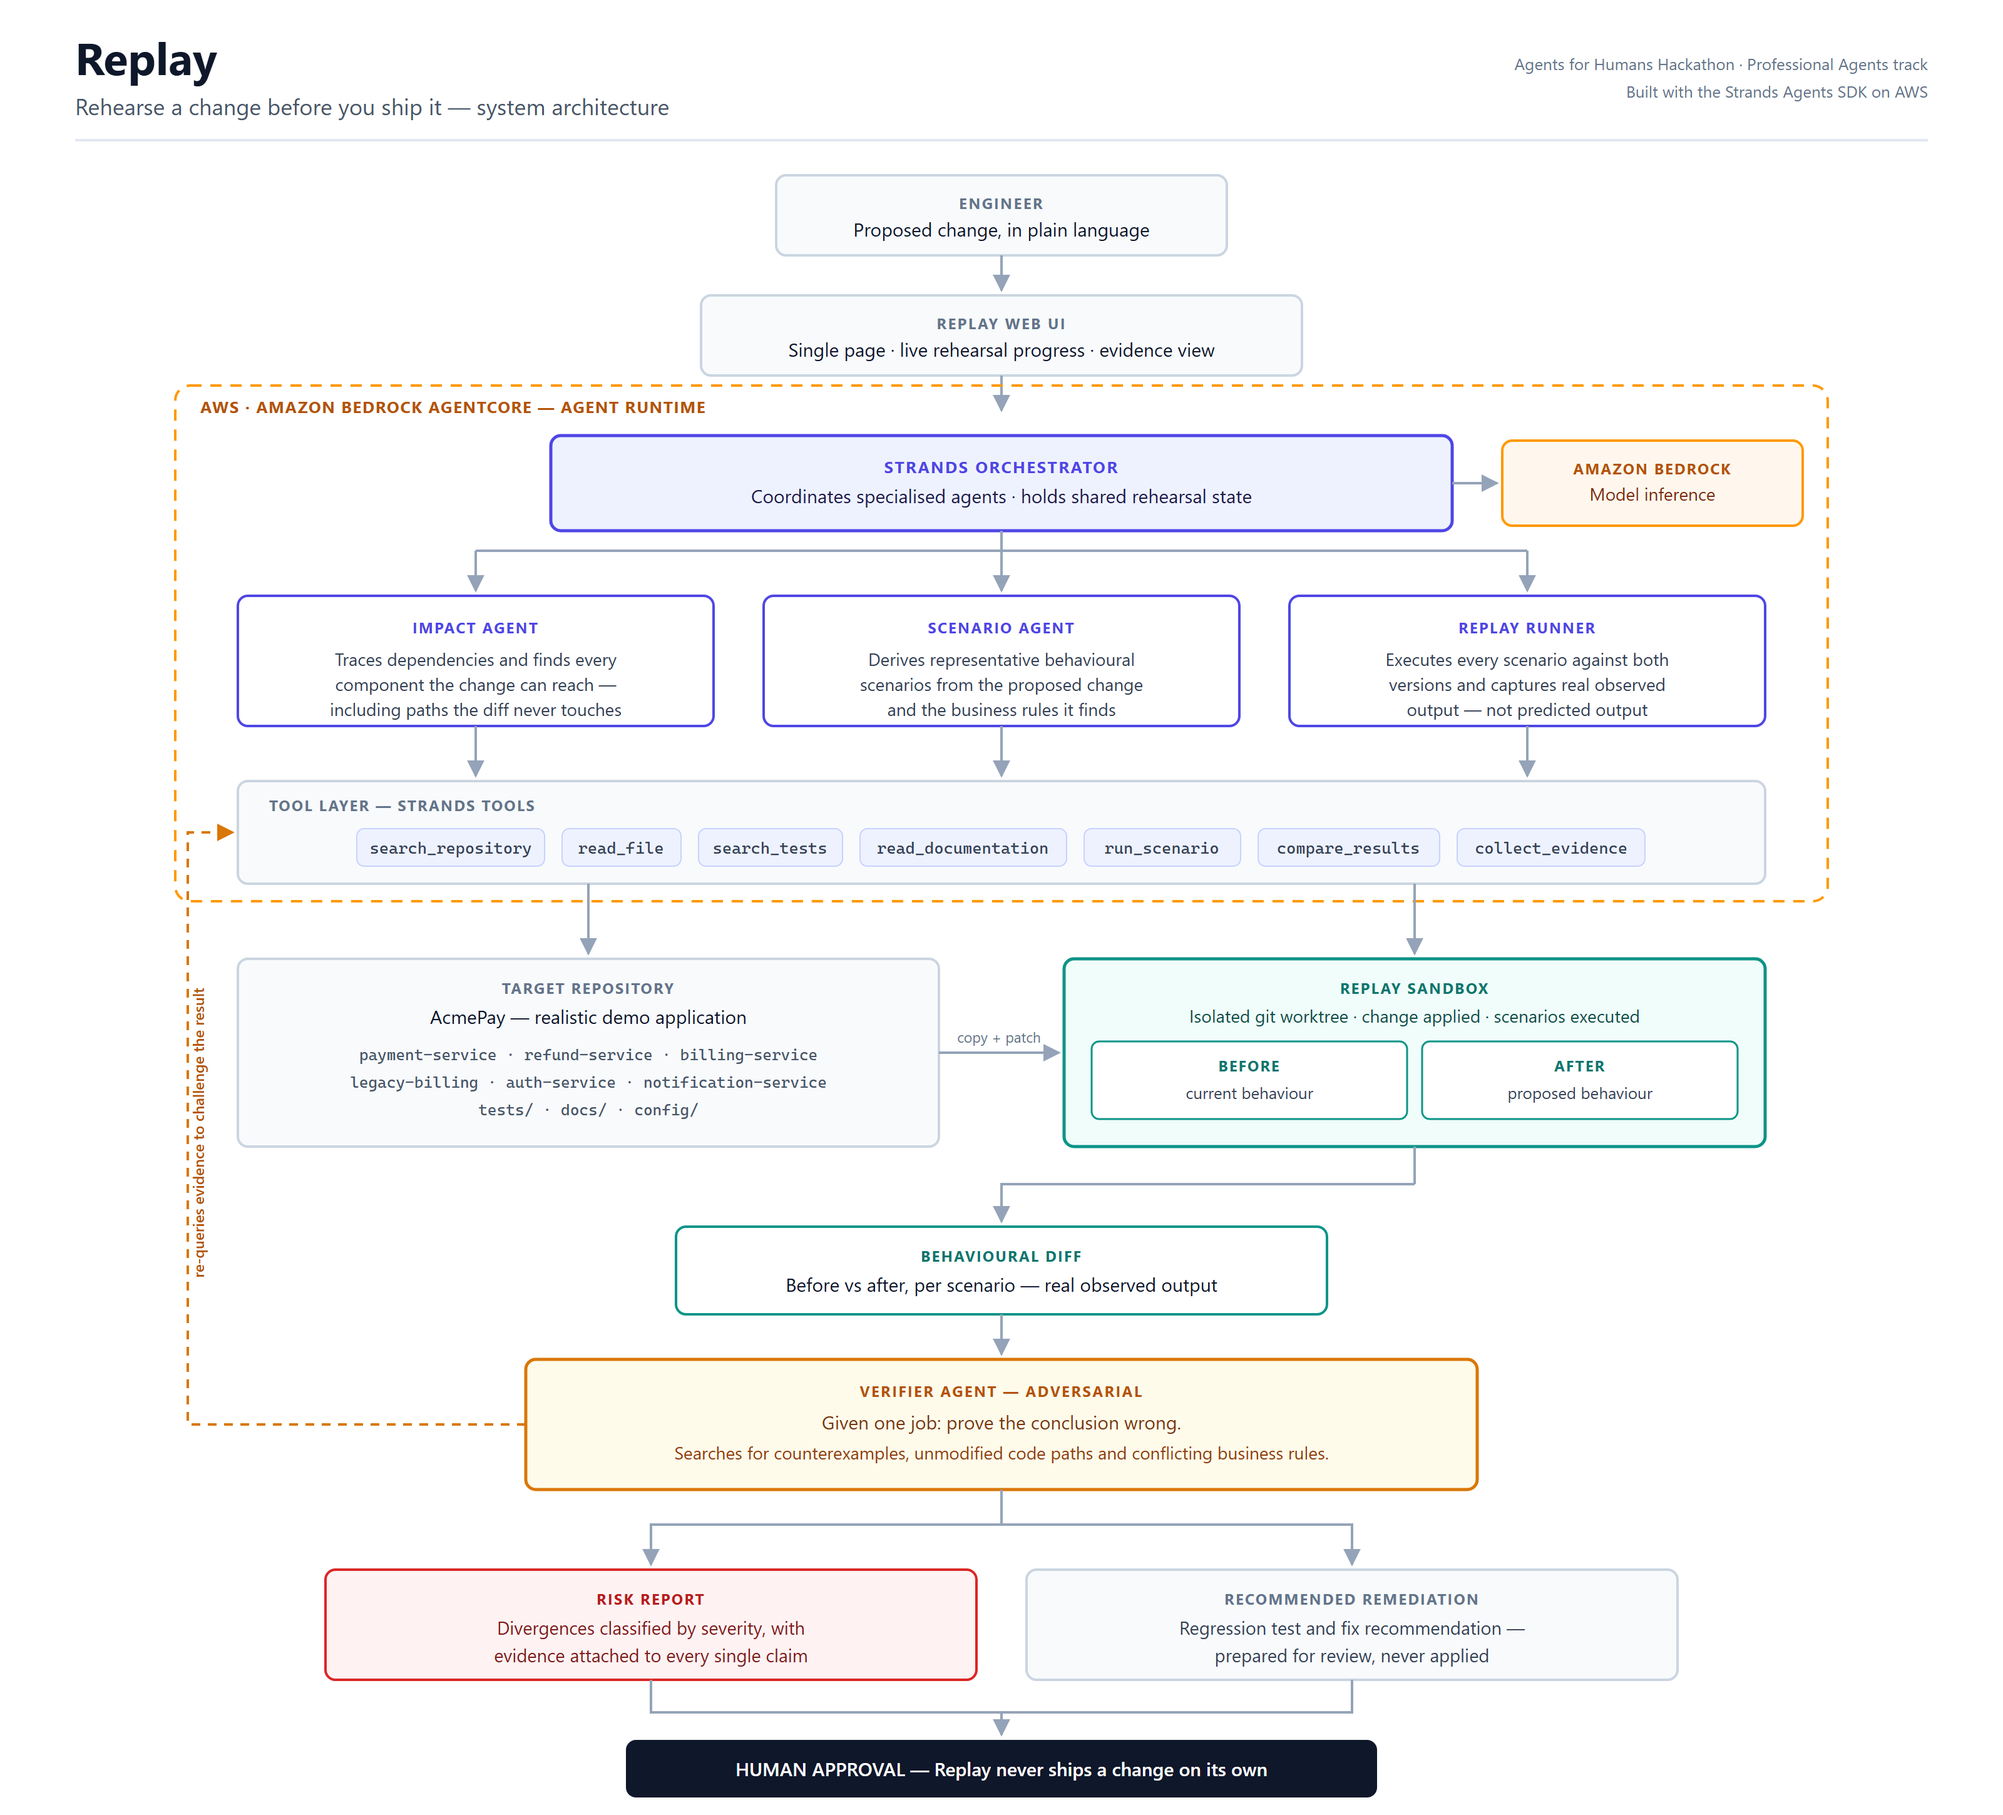
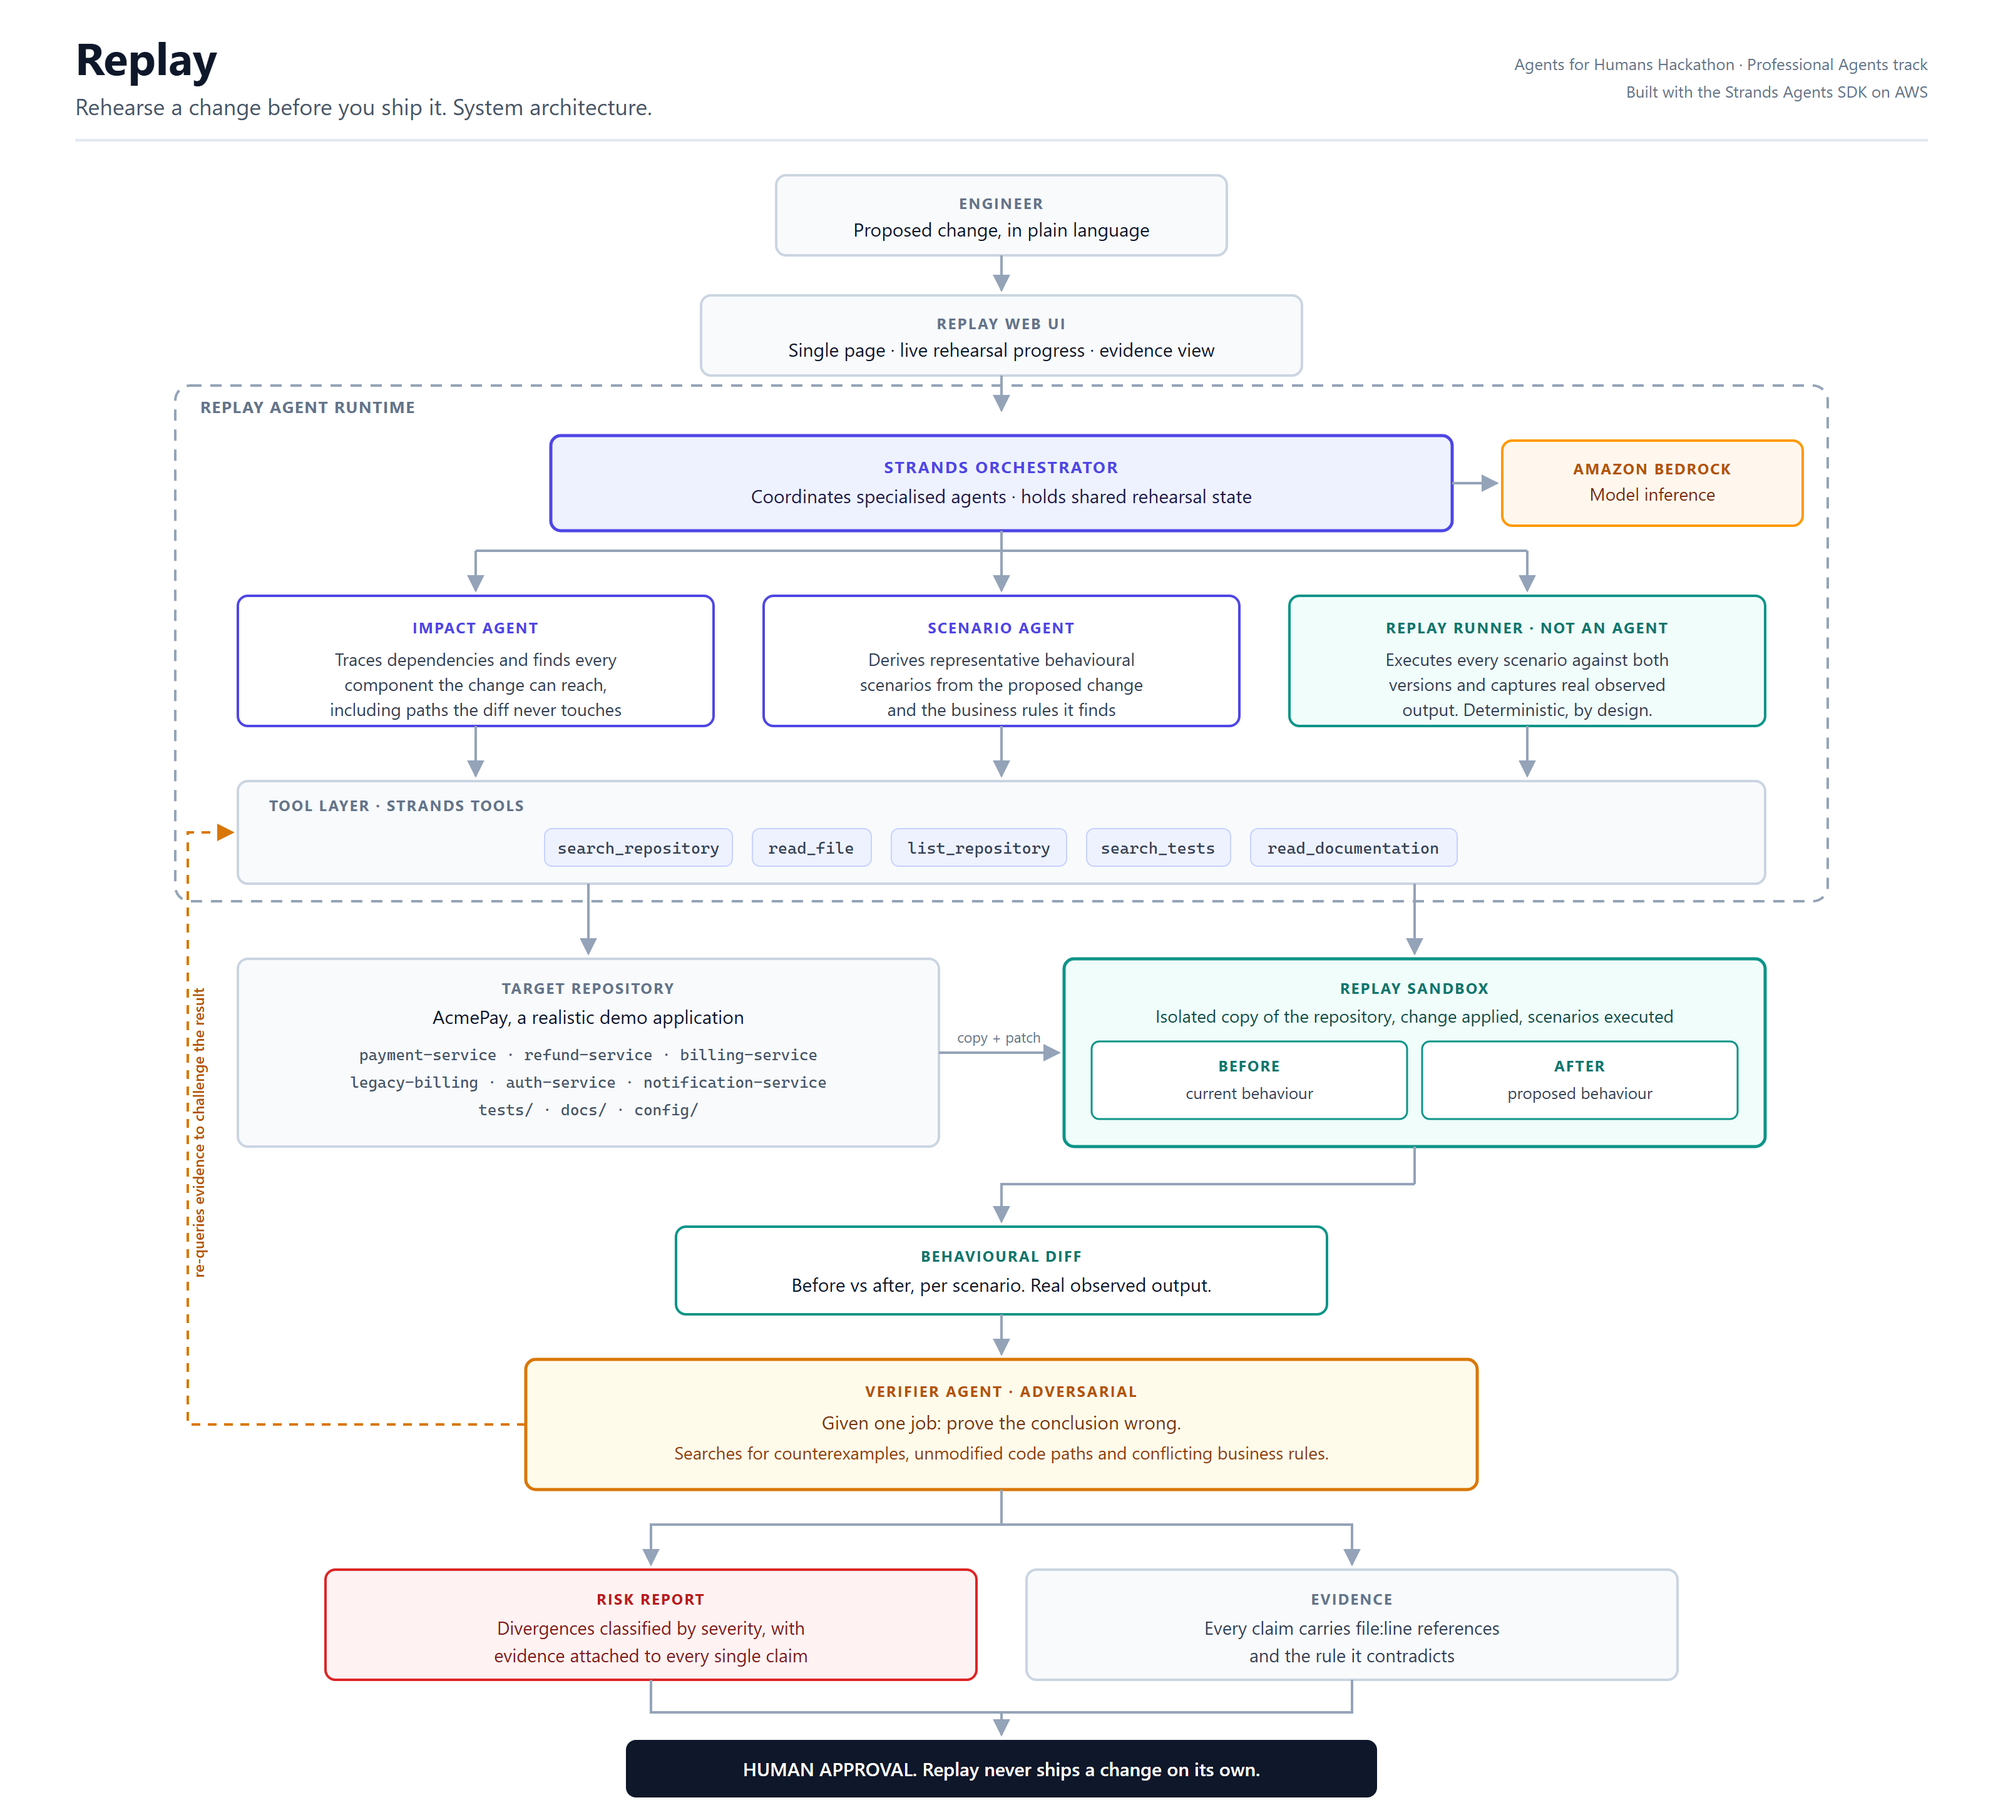
Correct the architecture diagram, and stop the dash sweep breaking its own filter
The diagram claimed things that are not true. It showed an AgentCore boundary
that was never used, called the sandbox a git worktree when it is a temp
directory copy, listed three tools that do not exist, promised a remediation
step that was deliberately never built, and drew the Replay Runner in the same
style as the agents when the whole point is that it is not one. All corrected,
and the runner is now visually distinct.

Removing dashes across the repository also stripped them out of the table in
report.py that replaces them, quietly turning the filter into a no-op. The
characters are now written with a comment explaining why they must stay
literal.

README had gone stale in three places: it named Hugging Face as the live host
when the demo runs on Render, quoted the old two minute cooldown, and told
readers to pip install two packages by hand rather than use requirements.txt.

diff --git a/replay/report.py b/replay/report.py
@@ -13,7 +13,14 @@ from .pipeline import RehearsalReport
 # Models reach for em and en dashes constantly. Normalise them to a plain
 # hyphen on the way out so the page reads consistently, whatever the agents
 # happened to write this run.
-_DASHES = {"—": "-", "–": "-", "−": "-"}
+# Written as escapes on purpose. Spelled literally, a find-and-replace over the
+# repository strips the characters out of the table that replaces them, and the
+# filter silently becomes a no-op.
+_DASHES = {
+    "—": "-",  # em dash
+    "–": "-",  # en dash
+    "−": "-",  # minus sign
+}
 
 
 def clean(text: Any) -> Any:

diff --git a/replay/tools.py b/replay/tools.py
@@ -1,7 +1,7 @@
 """Strands tools for investigating a target repository.
 
 These are the agents' hands. Every one of them reads real files from the
-target repository — none of them ask a model what a file probably contains.
+target repository - none of them ask a model what a file probably contains.
 
 They are built by a factory bound to a repository root so the same tool set
 can be pointed at any checkout, and so each function stays directly callable

diff --git a/README.md b/README.md
@@ -18,7 +18,7 @@ Existing tools answer *"what might be affected?"* Replay answers *"what actually
 behaved differently, and does that break a rule?"*
 
 The difference is that Replay runs an experiment. Scenarios execute as real
-subprocesses inside isolated copies of the repository — one pristine, one with
+subprocesses inside isolated copies of the repository - one pristine, one with
 the change applied. If Replay claims behaviour changed, there is an execution
 trace behind the claim.
 
@@ -31,7 +31,7 @@ trace behind the claim.
 | Impact Agent | Strands agent | Traces what the change reaches, including duplicates the diff misses |
 | Scenario Agent | Strands agent | Designs the observations that would expose a difference |
 | Replay Runner | deterministic | Executes every scenario in both sandboxes, captures real output |
-| Verifier Agent | Strands agent | Adversarial — tries to prove the conclusion wrong |
+| Verifier Agent | Strands agent | Adversarial - tries to prove the conclusion wrong |
 
 The Replay Runner is deliberately **not** an agent. Executing a scenario and
 comparing two outputs is deterministic work; wrapping it in a model would add
@@ -43,10 +43,10 @@ credible.
 Requires Python 3.11+, and AWS credentials with Amazon Bedrock model access.
 
 ```bash
-pip install strands-agents strands-agents-tools
+pip install -r requirements.txt
 ```
 
-**1. Model access.** Nothing to do in most accounts — serverless foundation
+**1. Model access.** Nothing to do in most accounts - serverless foundation
 models are enabled automatically on first invocation, and the old Bedrock
 "Model access" console page has been retired. First-time users of Anthropic
 models may be asked to submit use-case details once before the first call
@@ -71,13 +71,13 @@ export AWS_REGION=us-east-1
 ## Running it
 
 **Check your setup first.** This verifies credentials, region, and that Bedrock
-will actually answer — and names the exact problem if not:
+will actually answer - and names the exact problem if not:
 
 ```bash
 python scripts/check_aws.py
 ```
 
-**The web interface** — the same thing the live demo runs:
+**The web interface** - the same thing the live demo runs:
 
 ```bash
 uvicorn replay.web:app --host 0.0.0.0 --port 8000
@@ -94,7 +94,7 @@ python scripts/rehearse.py "Change the standard transaction fee from 2.5% to 2%"
 ```
 
 **The deterministic harness on its own**, with hand-written scenarios and no
-model calls — useful for verifying the sandbox works without spending anything,
+model calls - useful for verifying the sandbox works without spending anything,
 and for seeing that the before/after evidence is real:
 
 ```bash
@@ -109,30 +109,32 @@ python scripts/record_run.py
 
 ### Live rehearsals are rate limited
 
-A public URL making real Bedrock calls is a fast way to lose a credit balance,
-so `replay/web.py` caps live runs: one at a time, a two-minute per-client
-cooldown, and an hourly ceiling. When the cap is hit the page says so and falls
-back to the recorded run. Adjust the constants at the top of that file if you
-are running it privately.
+A rehearsal costs about **$0.58** in Bedrock tokens, measured from the agents'
+own usage metrics. A public URL making real model calls is a fast way to lose a
+credit balance, so `replay/web.py` caps live runs: one at a time, a 45 second
+per-client cooldown, 30 per hour, and a lifetime spend ceiling denominated in
+dollars rather than runs (`REPLAY_SPEND_BUDGET_USD`, default 40). When a cap is
+hit the page says so and the recorded run stays on screen.
 
 ## Deploying it
 
 Replay ships a `Dockerfile` and reads its port from `$PORT`, so the same image
 runs on Hugging Face Spaces, Fly, Cloud Run, ECS, or a laptop.
 
-**Hugging Face Spaces**, which is what the live demo uses:
+**Render**, which is what the live demo runs on:
 
-1. Create a Space at <https://huggingface.co/new-space> with **SDK: Docker**
-2. In the Space's **Settings -> Variables and secrets**, add `AWS_ACCESS_KEY_ID`,
-   `AWS_SECRET_ACCESS_KEY` and `AWS_REGION` as **secrets**. The container needs
-   its own credentials; it cannot use yours.
-3. `git remote add space https://huggingface.co/spaces/<user>/<space>`
-4. `./scripts/deploy_space.sh`
+1. New Web Service, connect this repository, runtime **Docker**
+2. Health check path `/healthz`, plan **Free**, a **US region** so the app sits
+   near the Bedrock region rather than a transatlantic hop away
+3. Add `AWS_ACCESS_KEY_ID` and `AWS_SECRET_ACCESS_KEY` as environment variables.
+   The container needs its own credentials; it cannot use yours.
 
-The Space needs a `README.md` with configuration frontmatter at its root, which
-would collide with this one. `deploy_space.sh` handles that by building a
-throwaway `space` branch with the card from `deploy/huggingface/README.md`,
-pushing it, and returning you to your working branch.
+`render.yaml` carries this configuration for the Blueprint flow.
+
+Scripts for two other targets are included: `scripts/deploy_cloudrun.sh` for
+Google Cloud Run, which gives a full vCPU on its free tier, and
+`scripts/deploy_space.sh` for Hugging Face Spaces, which now requires a paid
+plan for Docker.
 
 **Keeping it warm.** Free hosting sleeps when idle. `.github/workflows/keep-warm.yml`
 pings `/healthz` every ten minutes so a visitor never lands on a cold start. Set
@@ -142,13 +144,13 @@ the repository variable `DEMO_URL` to the deployed base URL under
 ## The demo repository
 
 `demo-repo/acmepay` is a small payments application with a deliberately
-realistic problem. The transaction fee is defined once in `core/config.py` — but
+realistic problem. The transaction fee is defined once in `core/config.py` - but
 `services/legacy_billing.py`, ported from a mainframe, holds its own copy as
 `_FEE_BASIS_POINTS = 250`. A search for `0.025` or `STANDARD_FEE_RATE` never
 finds it.
 
 Meanwhile `docs/business-rules.md` BR-207 states that the refund fee is
-*contractually fixed* at 2.5% and does not track the standard fee — but
+*contractually fixed* at 2.5% and does not track the standard fee - but
 `services/refund_service.py` imports `STANDARD_FEE_RATE` anyway.
 
 So a one-line config change produces two failures of opposite kinds: a

diff --git a/demo-repo/acmepay/docs/business-rules.md b/demo-repo/acmepay/docs/business-rules.md
@@ -2,7 +2,7 @@
 
 These rules are contractual. Changes require finance and legal sign-off.
 
-## BR-101 — Standard transaction fee
+## BR-101 - Standard transaction fee
 
 Card payments are charged a standard transaction fee of **2.5%** of the
 transaction amount, rounded half-up to two decimal places.
@@ -10,7 +10,7 @@ transaction amount, rounded half-up to two decimal places.
 Owner: Payments
 Implemented in: `core/config.py`, `services/payment_service.py`
 
-## BR-207 — Refund fee is contractually fixed
+## BR-207 - Refund fee is contractually fixed
 
 When a payment is refunded, AcmePay retains a refund fee of **2.5%**.
 
@@ -21,7 +21,7 @@ change with it. Amending BR-207 requires renegotiating the merchant contract.
 Owner: Legal
 Implemented in: `services/refund_service.py`
 
-## BR-310 — Legacy plan billing
+## BR-310 - Legacy plan billing
 
 Merchants on the `legacy-2019` and `legacy-enterprise` plans are billed
 through the legacy billing engine ported from the mainframe in 2019, not
@@ -35,7 +35,7 @@ to the legacy engine separately.
 Owner: Platform
 Implemented in: `services/legacy_billing.py`, `services/billing_service.py`
 
-## BR-415 — Settlement rounding
+## BR-415 - Settlement rounding
 
 All monetary arithmetic rounds half-up to two decimal places via
 `core/money.py`. No service may implement its own rounding.
